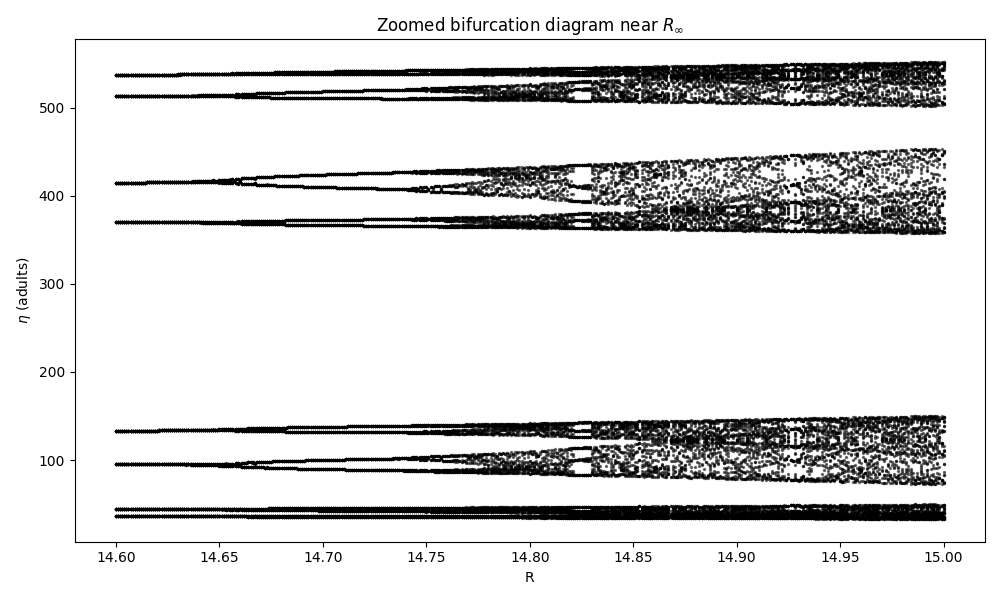
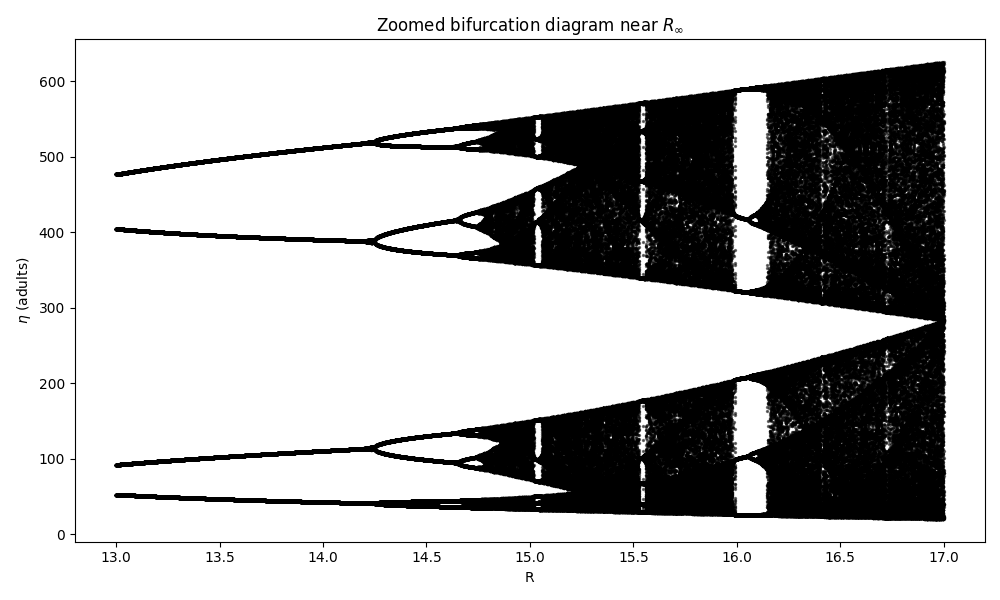
hehehe det e jennys

diff --git a/Computational-Biology/problem3.py b/Computational-Biology/problem3.py
@@ -63,7 +63,7 @@ for R in R_reps:
 
 
 # --- (d) Zoom in to estimate R_infty ---
-R_zoom = np.arange(14.6, 15, 0.001)
+R_zoom = np.arange(13, 17, 0.001)
 etas_zoom = []
 for R in R_zoom:
     eta = ricker_map(R, alpha, eta0, generations)
